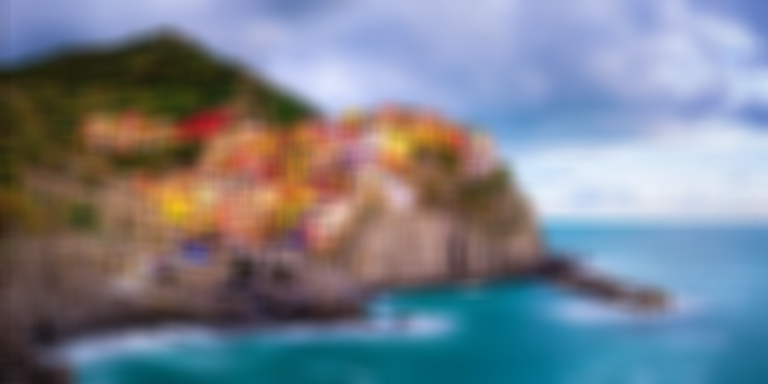
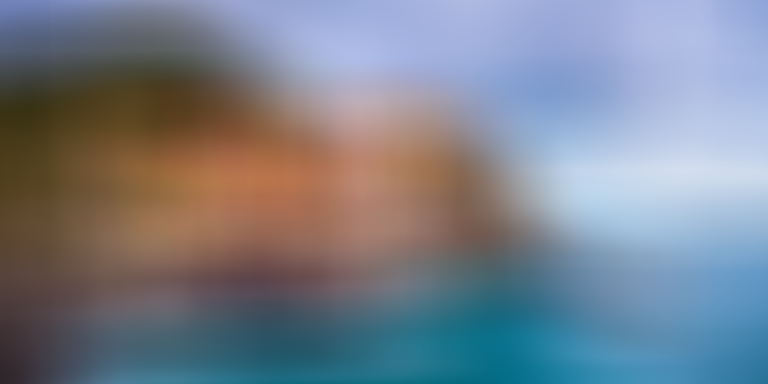
.

diff --git a/Photoshop/src/arrays2d/Photoshop.java b/Photoshop/src/arrays2d/Photoshop.java
@@ -11,6 +11,7 @@ import java.io.IOException;
 import java.lang.reflect.InvocationTargetException;
 import java.lang.reflect.Method;
 import java.util.ArrayList;
+import java.util.Arrays;
 import java.util.Collections;
 import java.util.List;
 import java.util.Scanner;
@@ -81,9 +82,8 @@ public class Photoshop extends Component {
     // the pixel's rgb value. 
     // use this predefined color as the rgb value for the changed image.
     public void simplify() {
-    
-    		// the list of colors to compare to. Feel free to change/add colors
-    		Color[] colorList = {Color.BLUE, Color.RED,Color.ORANGE, Color.MAGENTA,
+		// the list of colors to compare to. Feel free to change/add colors
+		Color[] colorList = {Color.BLUE, Color.RED,Color.ORANGE, Color.MAGENTA,
                 Color.BLACK, Color.WHITE, Color.GREEN, Color.YELLOW, Color.CYAN};
         outputName = "simplified_" + outputName;
         for (int i=0; i<pixels.length; i++) {
@@ -100,52 +100,101 @@ public class Photoshop extends Component {
         }
     }
     
-    public void kmeans() {
-    	for (int count=0; count<300; count++) {
-	    	int prev=0; 
-	    	Color[][] cList=new Color[9][2];
-	    	Color[][][] temp=new Color[pixels.length][pixels[0].length][2];
+//    public Color[] get(int n) {
+//    	outputName = "colors_" + outputName;
+//    	Color[] clist=new Color[n];
+//    	int min=Math.min(pixels.length, pixels[0].length), max=Math.max(pixels.length, pixels[0].length), curr=1, c=0, prev=0;
+//    	for (int i=0; min>1; ) {
+//    		c=(int) Math.sqrt(n);
+//    		int sqrs=max/min, div=c/(sqrs)+1;
+//    		prev=i-prev;
+//    		if (curr>sqrs) curr=1;
+//    		for (int j=1; j<=div; j++) {
+//    			for (int k=1; k<=div&&i<clist.length; k++, i++) {
+//    				clist[i]=pixels[(j*(min*curr/div)-1)>pixels.length ? (j*(min/div)-1): (j*(min*curr/div)-1)][(k*(min*curr/div)-1)>pixels[0].length ? (k*(min/div)-1): (k*(min*curr/div)-1)];
+//    				System.out.println((j*(min*curr/div)-1)>pixels.length ? (j*(min/div)-1): (j*(min*curr/div)-1)+" "+((k*(min*curr/div)-1)>pixels[0].length ? (k*(min/div)-1): (k*(min*curr/div)-1)));
+//    			}
+//    		}
+//    		n-=prev; System.out.println(n+" "+i); curr++; if (n>0) continue;
+//    		if (max-min*(sqrs)==0) break;
+//    		min=Math.min(min, max-min*(sqrs));
+//    		max=Math.max(min, max-min*(sqrs));
+//    	}
+//    	System.out.println(Arrays.toString(clist));
+//    	return clist;
+//    }
+    
+    public void kmeans(int n) {
+    	outputName = "kmeans_" + outputName;
+    	if (n==0) return;
+    	int prev=0; 
+    	Color[][] cList=new Color[2][n];
+    	Color[][][] temp=new Color[pixels.length][pixels[0].length][2];
+    	int ind=0;
+    	for (int i=0; i<(int)Math.sqrt(n); i++) {
+    		for (int j=0; j<(int)Math.sqrt(n); j++, ind++) {
+    			cList[0][ind]=pixels[(int)(i*(pixels.length/Math.sqrt(n)))][(int)(j*(pixels[0].length/Math.sqrt(n)))];
+    			System.out.println((int)(i*(pixels.length/Math.sqrt(n)))+" "+(int)(j*(pixels[0].length/Math.sqrt(n))));
+    		}
+    	}
+    	while (ind<n) {
+    		cList[0][ind]=new Color((int)(Math.random()*255), (int) (Math.random()*255),(int) (Math.random()*255)); ind++;
+    	}
+    	
+    	for (int i=0; i<temp.length; i++) {
+    		for (int j=0; j<temp[i].length; j++) {
+    			temp[i][j][0]=pixels[i][j];
+    		} //makes temp [][][0]=pixels[][]
+    	}
+    	System.out.println();
+    	int c=0;
+    	for (int count=0; c!=cList[0].length; count++) {
+    		System.out.print(count+" ");
 	    	
-	    	for (int i=0; i<cList.length; i++) {
-	    		cList[i][0]=pixels[pixels.length/((i+3)/3)-1][pixels[0].length/(i%3+1)-1];
-	    	}
-	    	
+    		c=0;
 	    	for (int i=0; i<temp.length; i++) {
 	    		for (int j=0; j<temp[i].length; j++) {
-	    			double t=distance(pixels[i][j], cList[0][0]); int index=0;
-	    			for (int k=1; k<cList.length; k++) {
-	    				t=distance(pixels[i][j], cList[k][0]);
-	    				index=k;
+	    			double t=distance(temp[i][j][count%2], cList[0][0]); int index=0;
+					for (int k=1; k<cList[count%2].length; k++) {
+	    				if (distance(temp[i][j][count%2], cList[count%2][k])<t) {
+		    				t=distance(temp[i][j][count%2], cList[count%2][k]);
+		    				index=k;
+	    				}
 	    			}
-	    			temp[i][j][0]=cList[index][0];
-	    			temp[i][j][1]=pixels[i][j];
+	    			temp[i][j][(count+1)%2]=temp[i][j][count%2];
+	    			temp[i][j][count%2]=cList[count%2][index];
 	    		}
 	    	}
-	    	int[][] avg=new int[9][4];
+	    	int[][] avg=new int[n][4];
 	    	for (int i=0; i<temp.length; i++) {
-	    		for (int j=0; j<temp.length; j++) {
-	    			for (int k=0; k<cList.length; k++) {
-	    				if (temp[i][j][0]==cList[k][0]) {
-	    					avg[k][0]+=temp[i][j][1].getRed();
-	    					avg[k][1]+=temp[i][j][1].getGreen();
-	    					avg[k][2]+=temp[i][j][1].getBlue();
+	    		for (int j=0; j<temp[i].length; j++) {
+	    			for (int k=0; k<cList[0].length; k++) {
+	    				if (temp[i][j][count%2]==cList[count%2][k]) {
+	    					avg[k][0]+=temp[i][j][(count+1)%2].getRed();
+	    					avg[k][1]+=temp[i][j][(count+1)%2].getGreen();
+	    					avg[k][2]+=temp[i][j][(count+1)%2].getBlue();
 	    					avg[k][3]++;
 	    					break;
 	    				}
 	    			}
 	    		}
 	    	}
-	    	int c=0;
-	    	for (int i=0; i<cList.length; i++) {
+	    	for (int i=0; i<cList[0].length; i++) {
 	    		if (avg[i][3]!=0)
-	    			cList[i][1]=new Color(avg[i][0]/avg[i][3], avg[i][1]/avg[i][3], avg[i][2]/avg[i][3]);
+	    			cList[(count+1)%2][i]=new Color(avg[i][0]/avg[i][3], avg[i][1]/avg[i][3], avg[i][2]/avg[i][3]);
 	    		else 
-	    			cList[i][1]=Color.black;
-	    		if (distance(cList[i][0],cList[i][1])<10) {
+	    			cList[(count+1)%2][i]=Color.black;
+	    		if (distance(cList[count%2][i],cList[(count+1)%2][i])<1) {
 	    			c++;
 	    		}
 	    	}
-	    	if (c==cList.length) break;
+    		prev=count;
+    	}
+    	
+    	for (int i=0; i<pixels.length; i++) {
+    		for (int j=0; j<pixels[i].length; j++) {
+    			pixels[i][j]=temp[i][j][prev%2];
+    		}
     	}
     }
     
@@ -179,8 +228,7 @@ public class Photoshop extends Component {
         		}
         		
         		else {
-        			System.out.println(i+" "+j);
-        			int x, y=1;
+        			int x = 0, y=0;
         			for (x=Math.max(0, i-n); x<Math.min(pixels.length, i+n); x++) {
         				for (y=Math.max(0, j-n); y<Math.min(pixels[i].length, j+n); y++) {
         					r+=pixels[x][y].getRed();
@@ -189,117 +237,10 @@ public class Photoshop extends Component {
         				}
         			}
         			int x1=Math.max(0, i-n), y1=Math.max(0, j-n);
-        			int div=Math.abs((x-x1)*(y-y1));
+        			int div=(x-x1)*(y-y1);
         			temp[i][j]=new Color(r/div, g/div, b/div);
         		}
-        		
-//        		else {
-//        			int i1=i, i2=i-(pixels.length-1), j1=j, j2=j-(pixels[i].length-1); 
-//        			
-//        			
-//        			if (i1<n) { //top edge
-//        				if (j1<n) { //left corner
-//        					for (int x=i-i1; x<i+n; x++) {
-//        						for (int y=j-j1; y<j+n; y++) {
-//        							r+=pixels[x][y].getRed();
-//        							g+=pixels[x][y].getGreen();
-//        							b+=pixels[x][y].getBlue();
-//        						} 
-//            				}
-//        					int iMin=Math.min(i1, i2*-1), jMin=Math.min(j1,j2*-1);
-//                			int div=(n+1+Math.min(Math.abs(iMin), n))*(n+1+Math.min(Math.abs(jMin), n));
-//            				temp[i][j]=new Color(r/div, g/div, b/div);
-//        				}
-//        				else if (j2>-n&&j2<=0) { //right corner
-//        					for (int x=i-i1; x<i+n; x++) {
-//        						for (int y=j-j2; y>j-n; y--) {
-//        							r+=pixels[x][y].getRed();
-//        							g+=pixels[x][y].getGreen();
-//        							b+=pixels[x][y].getBlue();
-//        						} 
-//            				}
-//        					int iMin=Math.min(i1, i2*-1), jMin=Math.min(j1,j2*-1);
-//                			int div=(n+1+Math.min(Math.abs(iMin), n))*(n+1+Math.min(Math.abs(jMin), n));
-//            				temp[i][j]=new Color(r/div, g/div, b/div);
-//        				}
-//        				else {
-//        					for (int x=i-i1; x<i+n; x++) {
-//        						for (int y=j+n; y>j-n; y--) {
-//        							r+=pixels[x][y].getRed();
-//        							g+=pixels[x][y].getGreen();
-//        							b+=pixels[x][y].getBlue();
-//        						} 
-//        					}
-//        					int iMin=Math.min(i1, i2*-1), jMin=Math.min(j1,j2*-1);
-//                			int div=(n+1+Math.min(Math.abs(iMin), n))*(n+1+Math.min(Math.abs(jMin), n));
-//            				temp[i][j]=new Color(r/div, g/div, b/div);
-//        				}
-//        			}
-//        			
-//        			else if (i2>-n){ //bottom edge
-//    					if (j1<n) { //left corner
-//    						for (int x=i-i2; x>i-n; x--) {
-//    							for (int y=j-j1; y<j+n; y++) {
-//        							r+=pixels[x][y].getRed();
-//        							g+=pixels[x][y].getGreen();
-//        							b+=pixels[x][y].getBlue();
-//        						} 
-//    						}
-//                			int div=(n+1-i2)*(n+1+j1);
-//            				temp[i][j]=new Color(r/div, g/div, b/div);
-//        				}
-//        				else if (j2>-n&&j2<=0){ //right corner
-//        					for (int x=i-i2; x>i-n; x--) {
-//		    					for (int y=j-j2; y>j-n; y--) {
-//									r+=pixels[x][y].getRed();
-//									g+=pixels[x][y].getGreen();
-//									b+=pixels[x][y].getBlue();
-//								} 
-//        					}
-//                			int div=(n+1-i2)*(n+1-j2);
-//            				temp[i][j]=new Color(r/div, g/div, b/div);
-//        				}
-//        				else {
-//        					for (int x=i-i2; x>i-n; x--) {
-//		    					for (int y=j+n; y>j-n; y--) {
-//									r+=pixels[x][y].getRed();
-//									g+=pixels[x][y].getGreen();
-//									b+=pixels[x][y].getBlue();
-//								} 
-//        					}
-//                			int div=(n+1-i2)*(2*n+1);
-//            				temp[i][j]=new Color(r/div, g/div, b/div);
-//        				}
-//        			}
-//        			
-//        			else {
-//        				if (j1<n) { //left edge
-//        					for (int x=i+n; x>i-n; x--) {
-//        						for (int y=j-j1; y<j+n; y++) {
-//        							r+=pixels[x][y].getRed();
-//        							g+=pixels[x][y].getGreen();
-//        							b+=pixels[x][y].getBlue();
-//        						} 
-//        					}
-//        					int iMin=Math.min(i1, i2*-1), jMin=Math.min(j1,j2*-1);
-//                			int div=(n+1+Math.min(Math.abs(iMin), n))*(n+1+Math.min(Math.abs(jMin), n));
-//            				temp[i][j]=new Color(r/div, g/div, b/div);
-//        				}
-//        				else if (j2>-n&&j2<=0){ //right edge
-//        					for (int x=i+n; x>i-n; x--) {
-//        						for (int y=j-j2; y>j-n; y--) {
-//									r+=pixels[x][y].getRed();
-//									g+=pixels[x][y].getGreen();
-//									b+=pixels[x][y].getBlue();
-//								} 
-//        					}
-//        					int iMin=Math.min(i1, i2*-1), jMin=Math.min(j1,j2*-1);
-//                			int div=(n+1+Math.min(Math.abs(iMin), n))*(n+1+Math.min(Math.abs(jMin), n));
-//            				temp[i][j]=new Color(r/div, g/div, b/div);
-//        				}
-//        			}
-//        		}
-        	} 
+        	}
         }
 		for (int i=0; i<pixels.length; i++) {
         	for (int j=0; j<pixels[i].length; j++) {
@@ -350,21 +291,11 @@ public class Photoshop extends Component {
 			temp[i]=new Color[pixels[i].length];
         	for (int j=1; j<pixels[i].length-1; j++) { //goes through every pixel
         		int r=0,g=0,b=0;
-        		r+=pixels[i-1][j].getRed();
-        		g+=pixels[i-1][j].getGreen();
-        		b+=pixels[i-1][j].getBlue();
-        		r+=pixels[i+1][j].getRed();
-        		g+=pixels[i+1][j].getGreen();
-        		b+=pixels[i+1][j].getBlue();
-        		r+=pixels[i][j-1].getRed();
-        		g+=pixels[i][j-1].getGreen();
-        		b+=pixels[i][j-1].getBlue();
-        		r+=pixels[i][j+1].getRed();
-        		g+=pixels[i][j+1].getGreen();
-        		b+=pixels[i][j+1].getBlue();
-        		r*=-1;
-        		g*=-1;
-        		b*=-1;
+        		r+=pixels[i-1][j].getRed(); g+=pixels[i-1][j].getGreen(); b+=pixels[i-1][j].getBlue();
+        		r+=pixels[i+1][j].getRed(); g+=pixels[i+1][j].getGreen(); b+=pixels[i+1][j].getBlue();
+        		r+=pixels[i][j-1].getRed(); g+=pixels[i][j-1].getGreen(); b+=pixels[i][j-1].getBlue();
+        		r+=pixels[i][j+1].getRed(); g+=pixels[i][j+1].getGreen(); b+=pixels[i][j+1].getBlue();
+        		r*=-1; g*=-1; b*=-1;
         		r+=pixels[i][j].getRed()*5;
         		g+=pixels[i][j].getGreen()*5;
         		b+=pixels[i][j].getBlue()*5;
@@ -380,16 +311,17 @@ public class Photoshop extends Component {
     
     public void rotate() {
     	 outputName = "rotated_" + outputName;
-         Color[][]temp=new Color[pixels[0].length][pixels.length]; 
-         for (int i=0; i<temp.length; i++) {
-        	 for (int j=0; j<temp[i].length; j++) {
-        		 
+         Color[][]temp=pixels;
+         pixels=new Color[temp[0].length][temp.length]; 
+         for (int i=0; i<pixels.length; i++) {
+        	 for (int j=temp.length-1, k=0; j>=0; j--, k++) {
+        		 pixels[i][k]=temp[j][i];
         	 }
          }
     }
    
     
-    // *************** DON'T MESS WITH THE BELOW CODE **************** //
+    // *************** I MESSED WITH THE BELOW CODE :D **************** //
     
     // feel free to check it out, but don't change it unless you've consulted 
     // with Mr. David and understand what the code's doing
@@ -410,8 +342,6 @@ public class Photoshop extends Component {
 		try {
 			image = ImageIO.read(my_file);
 		
-	        BufferedImage new_image = new BufferedImage(image.getWidth(),
-	                        image.getHeight(), BufferedImage.TYPE_INT_ARGB);
 	        create_pixel_array(image);
 			outputName = my_file.getName();
 			
@@ -440,6 +370,18 @@ public class Photoshop extends Component {
 		        			Method m = getClass().getDeclaredMethod(action, int.class);
 		        			m.invoke(this, blurness);
 		    			}
+		    			else if (action.equals("kmeans")) {
+		    				System.out.println("enter number of colors for kmeans");
+		    				int kmeansness = in.nextInt();
+		        			Method m = getClass().getDeclaredMethod(action, int.class);
+		        			m.invoke(this, kmeansness);
+		    			}
+		    			else if (action.equals("get")) {
+		    				System.out.println("enter number of colors");
+		    				int number = in.nextInt();
+		        			Method m = getClass().getDeclaredMethod(action, int.class);
+		        			m.invoke(this, number);
+		    			}
 		    			else {
 		        			Method m = getClass().getDeclaredMethod(action);
 		        			m.invoke(this, new Object[0]);
@@ -454,8 +396,10 @@ public class Photoshop extends Component {
 	    			
 	    			action = in.next().toLowerCase();
 	    		} 
+			
 	        in.close();
-	        
+	        BufferedImage new_image = new BufferedImage(pixels[0].length,
+                    pixels.length, BufferedImage.TYPE_INT_ARGB);
 	        // turns our 2d array of colors into a new png file
 	        create_new_image(new_image);
 	        File output_file = new File("Images/" + outputName);
@@ -480,6 +424,8 @@ public class Photoshop extends Component {
     }
 
     public void create_new_image(BufferedImage new_image) {
+    	w=new_image.getWidth();
+    	h=new_image.getHeight();
         for (int i = 0; i < h; i++) {
             for (int j = 0; j < w; j++) {
             		new_image.setRGB(j, i, pixels[i][j].getRGB());
